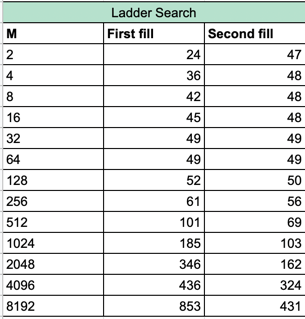
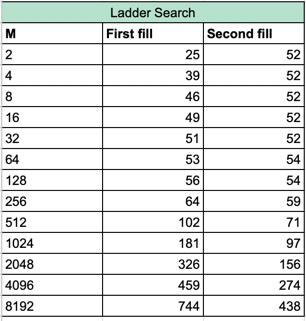
change ladder search

Changed region(s): [[0.0, 0.0, 1.0, 1.0]]

diff --git a/algorithms/ladder/ladder.cpp b/algorithms/ladder/ladder.cpp
@@ -3,14 +3,14 @@
 #include <iostream>
 #include "../../array/arrOpt.hpp"
 
-bool ladSearch (std::vector<std::vector<long long int> >& arr, int target) {
-  for (int i = 0, j = 8191; i < arr.size(); ++i) {
-    if (arr[i][j] == target) { return true; }
-    if (arr[i][j] < target) { continue; }
-    for (; j > -1; --j) {
-      if (arr[i][j] == target) { return true; }
-      if (arr[i][j] < target) { break; }
-    }
+bool ladSearch (vector<vector<long long int> >& arr, int target, int m) {
+  int i = 8191, j = 0;
+  while (i >= 0 && j < m) {
+      if (arr[j][i] == target) { return true; }
+      else {
+          if (arr[j][i] > target) { --i; }
+          else { ++j; }
+      }
   }
   return false;
 }
@@ -22,14 +22,14 @@ void ladderSearch (int m, int n) {
 
   target = firstFillArray(arr);
   auto start1 = chrono::system_clock::now();
-  ladSearch(arr, target);
+  ladSearch(arr, target, m);
   auto end1 = chrono::system_clock::now();
 
   cout << chrono::duration_cast<chrono::microseconds>(end1 - start1).count() << "\t\t";
 
   target = secondFillArray(arr);
   auto start2 = chrono::system_clock::now();
-  ladSearch(arr, target);
+  ladSearch(arr, target, m);
   auto end2 = chrono::system_clock::now();
 
   cout << chrono::duration_cast<chrono::microseconds>(end2 - start2).count() << endl;
